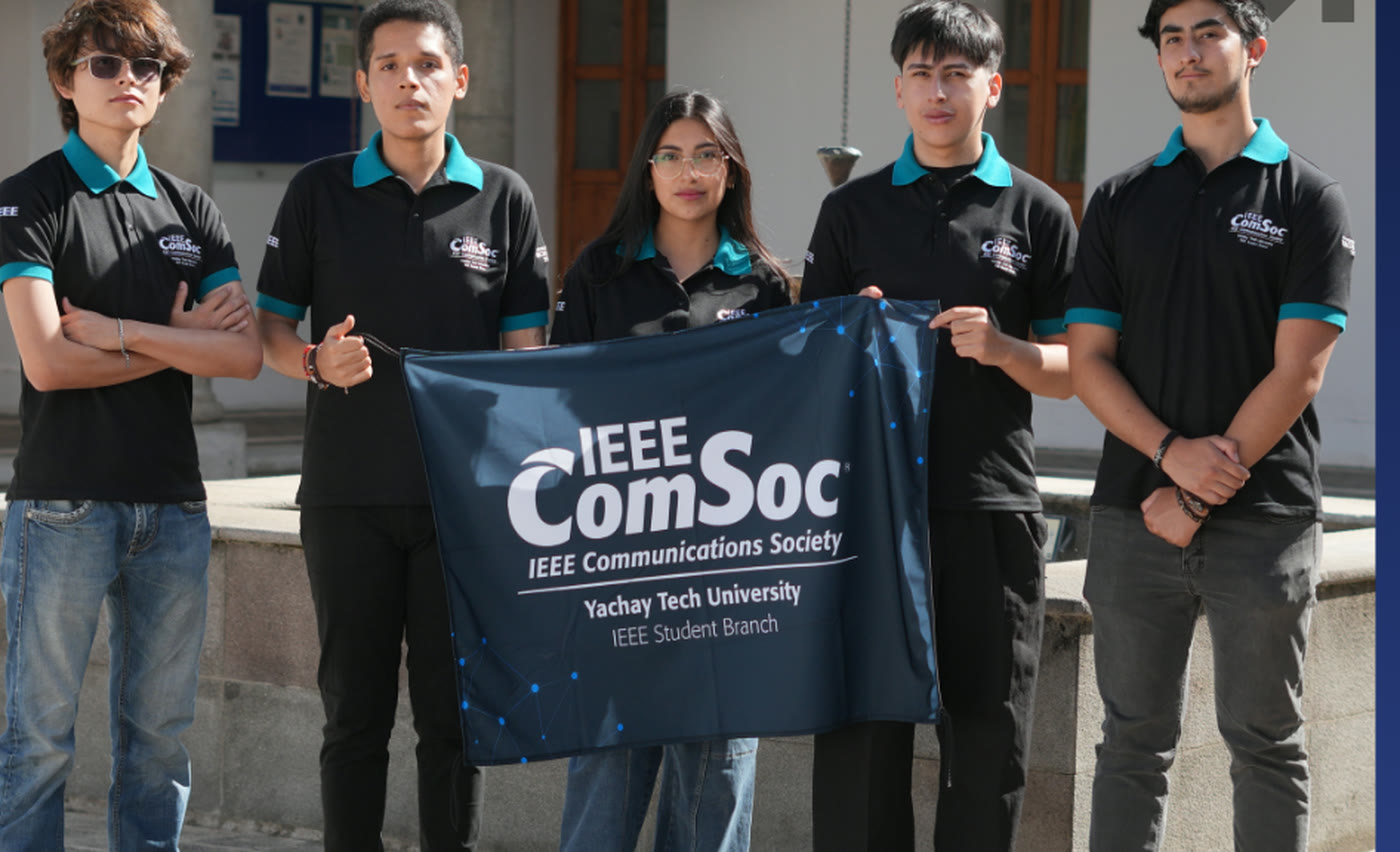
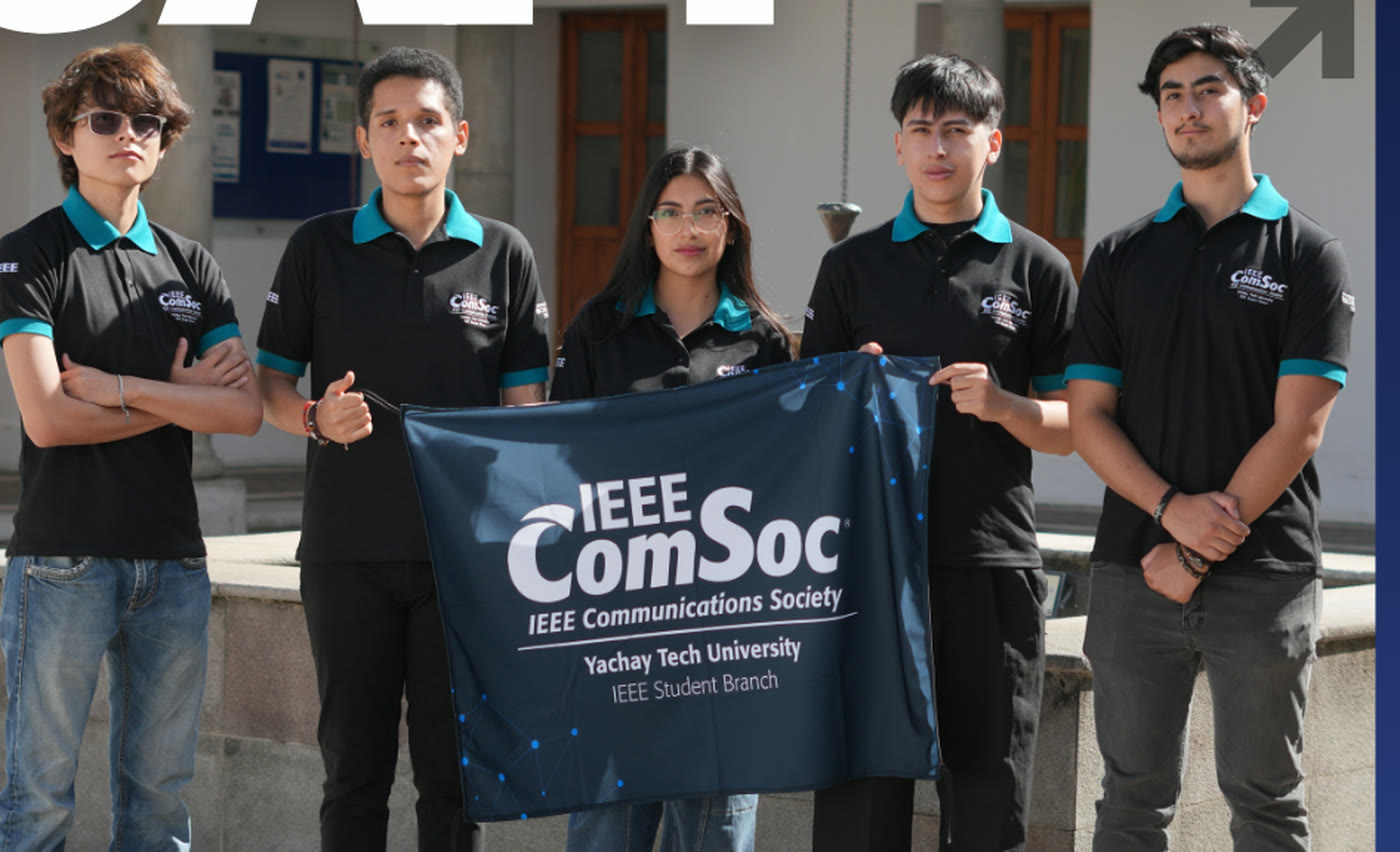
Las cuatro cabeceras nuevas cortaban las caras
El recorte anterior empezaba en y=310 de la portada, que cae DENTRO de las
cabezas, y encima el foco estaba en el 34 % de serie. Como la caja de cabecera
es 2,17:1 y la foto 1,64:1, se descarta un 24 % en vertical, y con ese foco se
lo comia justo por arriba: en pantalla salian torsos y bandera.

Medido con una regla sobre las portadas: el rotulo CAP. termina hacia y=270 y
las caras estan entre y=330 e y=400. Asi que el recorte sube a y=272 -justo
debajo del rotulo, que es todo el aire que hay- y el foco baja al 4 %.

Comprobado a 1440, a 1024 y en movil. A 1440 los cinco se ven enteros y las
cabezas despejan la barra de navegacion; a 1024 aguanta; en movil recorta a lo
ancho, igual que les pasa a los otros diez capitulos.

El foco va en los datos y no en el CSS porque es cosa de cada foto, no del
diseno: es el mismo mando que EMBS ya usaba al 10 %.

diff --git a/js/capitulos-data.js b/js/capitulos-data.js
@@ -527,6 +527,10 @@ var CAPS = {
        cual lea mejor: medido contra el punto medio. */
     grad:  ['#3D53A0', '#101A3A'],
     punto: 'papel',
+    /* Las portadas de directiva vienen recortadas casi a ras de las
+       cabezas -el rotulo CAP. ocupa el aire de arriba-, asi que el
+       encuadre sube casi del todo o la cabecera les corta la cara. */
+    foco:  '4%',
     /* Sin portada propia todavía: el velo cae al campo oscuro del sitio y el
        hero no lleva foto. En cuanto Andrés pase la pieza de su directiva, se
        muestrean los dos extremos como en los otros diez. */
@@ -578,6 +582,10 @@ var CAPS = {
        cual lea mejor: medido contra el punto medio. */
     grad:  ['#567EFC', '#126DA4'],
     punto: 'papel',
+    /* Las portadas de directiva vienen recortadas casi a ras de las
+       cabezas -el rotulo CAP. ocupa el aire de arriba-, asi que el
+       encuadre sube casi del todo o la cabecera les corta la cara. */
+    foco:  '4%',
     /* Sin portada propia todavía: el velo cae al campo oscuro del sitio y el
        hero no lleva foto. En cuanto Andrés pase la pieza de su directiva, se
        muestrean los dos extremos como en los otros diez. */
@@ -629,6 +637,10 @@ var CAPS = {
        cual lea mejor: medido contra el punto medio. */
     grad:  ['#CC678A', '#691C10'],
     punto: 'papel',
+    /* Las portadas de directiva vienen recortadas casi a ras de las
+       cabezas -el rotulo CAP. ocupa el aire de arriba-, asi que el
+       encuadre sube casi del todo o la cabecera les corta la cara. */
+    foco:  '4%',
     /* Sin portada propia todavía: el velo cae al campo oscuro del sitio y el
        hero no lleva foto. En cuanto Andrés pase la pieza de su directiva, se
        muestrean los dos extremos como en los otros diez. */
@@ -680,6 +692,10 @@ var CAPS = {
        cual lea mejor: medido contra el punto medio. */
     grad:  ['#3C6B9D', '#F9C526'],
     punto: 'tinta',
+    /* Las portadas de directiva vienen recortadas casi a ras de las
+       cabezas -el rotulo CAP. ocupa el aire de arriba-, asi que el
+       encuadre sube casi del todo o la cabecera les corta la cara. */
+    foco:  '4%',
     /* Sin portada propia todavía: el velo cae al campo oscuro del sitio y el
        hero no lleva foto. En cuanto Andrés pase la pieza de su directiva, se
        muestrean los dos extremos como en los otros diez. */
